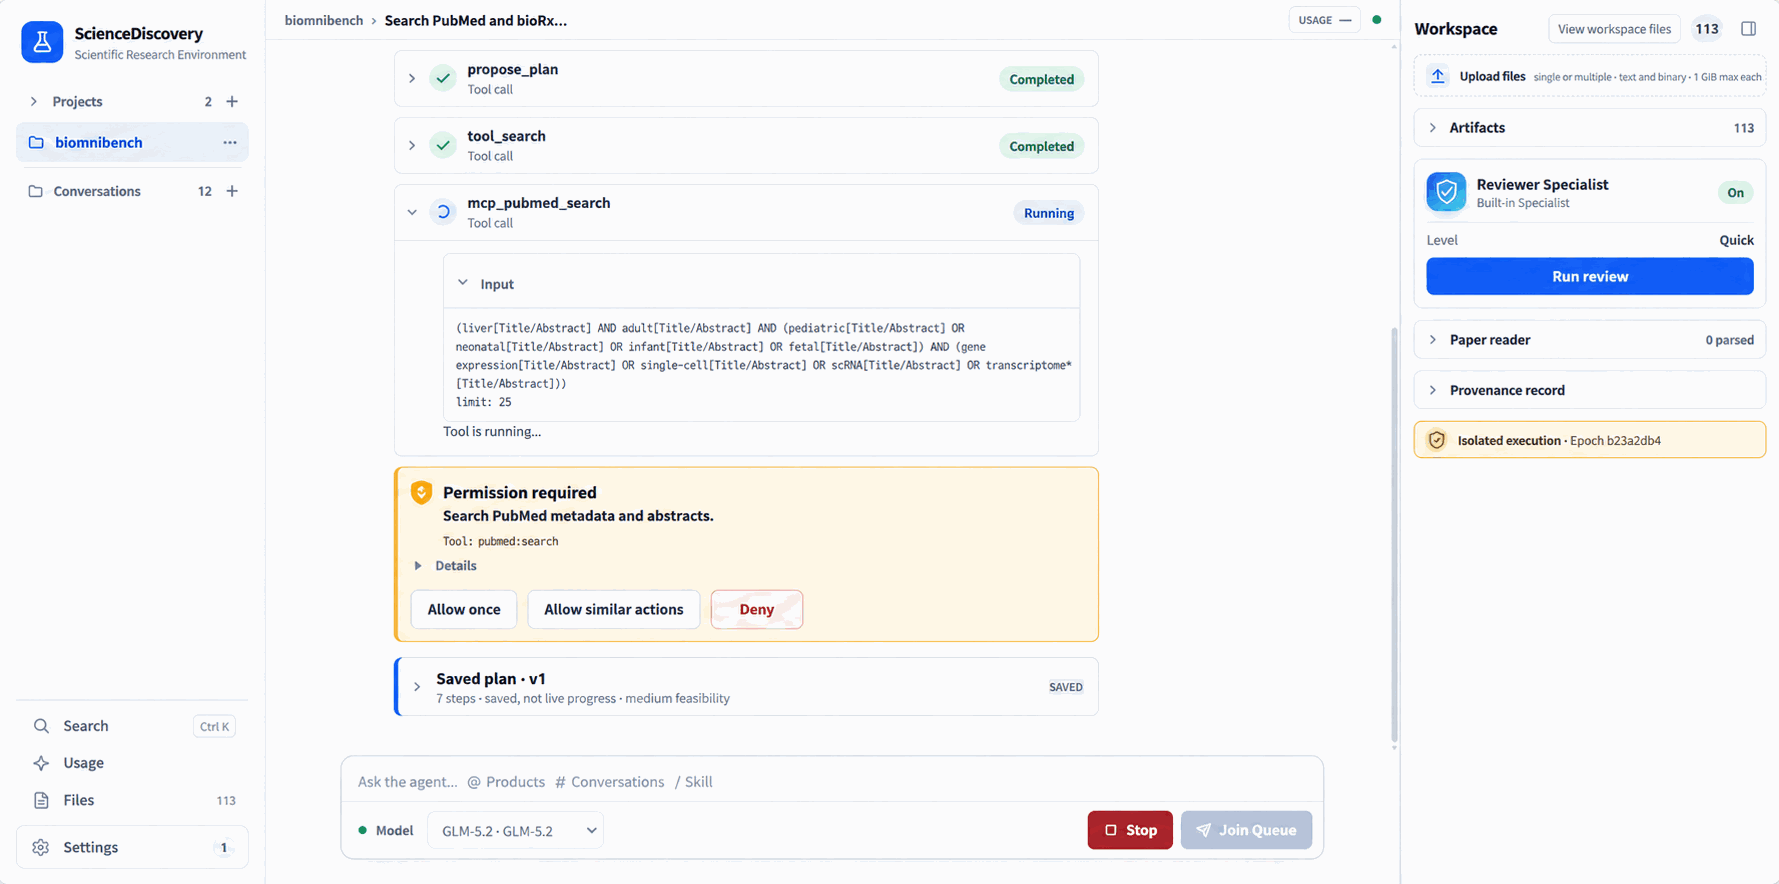
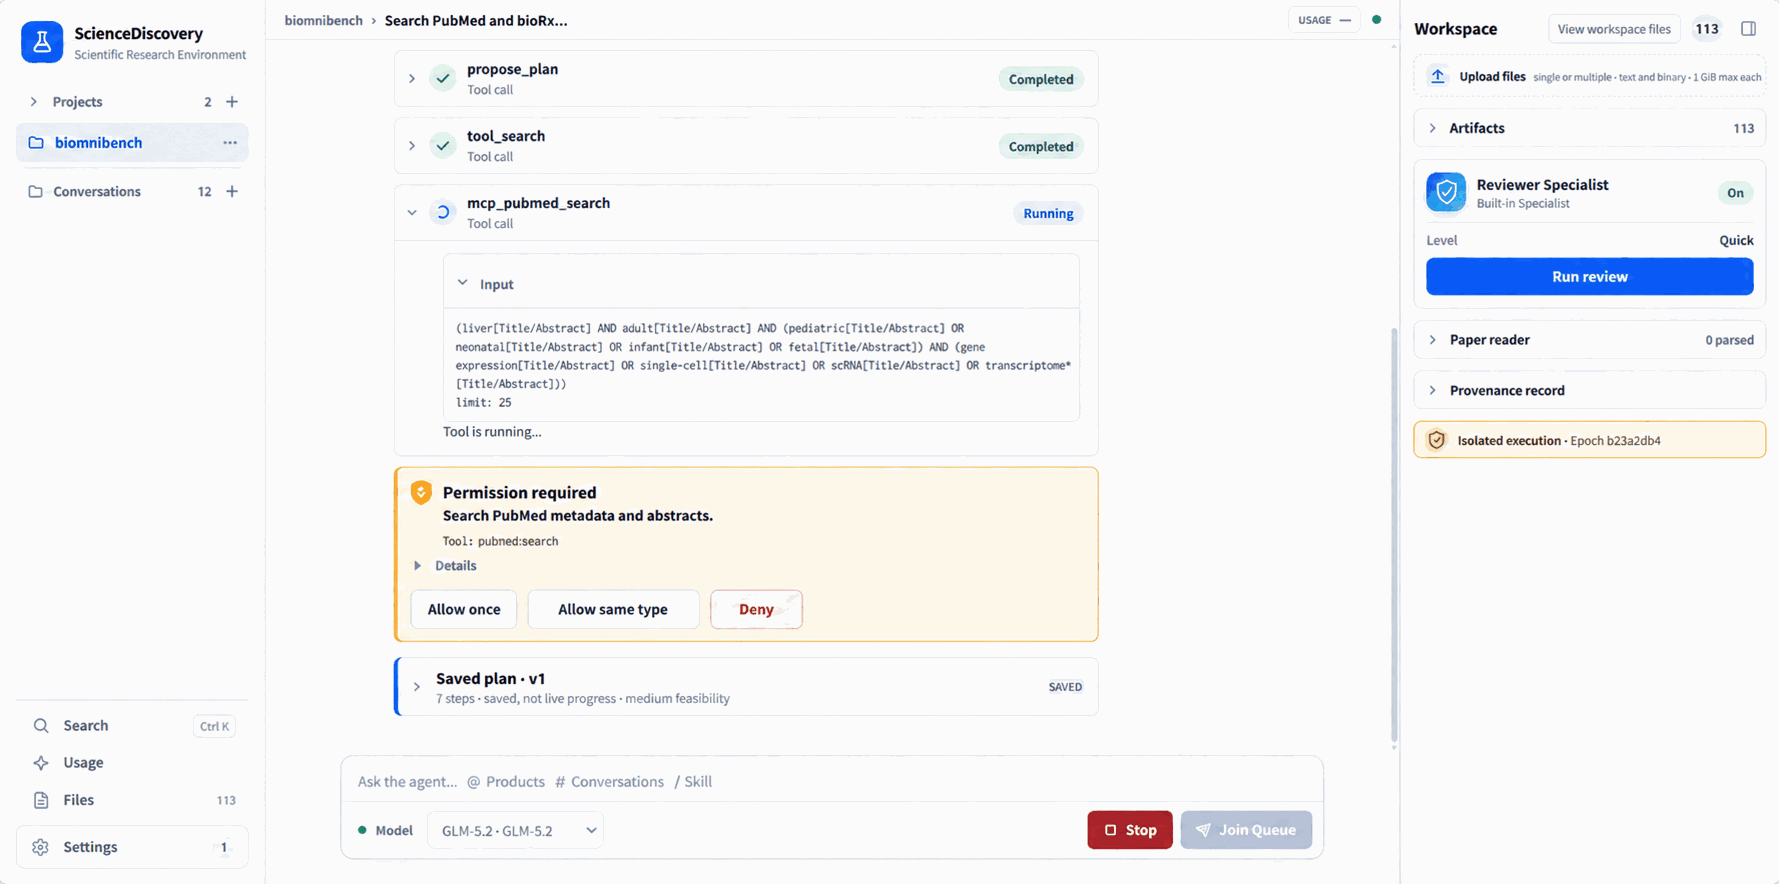
docs: fix first-use guide accuracy

diff --git a/docs/en/domains/literature-research.md b/docs/en/domains/literature-research.md
@@ -8,6 +8,11 @@ reviewing results.
 
 This case is a typical cross-database literature research task: the agent must search PubMed and bioRxiv for papers published 2023–2025 that compare gene expression in adult versus pediatric liver parenchymal cells, focus on immune-related pathways, and generate a bar chart of gene-count comparison for the top 14 enriched pathways, while flagging contradictory findings across studies.
 
+**bioRxiv search coverage:** The built-in search checks a rolling day window (`days`, default 30),
+then filters those records by text. It returns up to five matches by default (`limit`) and does not
+accept fixed calendar start and end dates. The 2023–2025 period in this case may not be covered.
+Check the returned dates before comparing the two sources.
+
 A task like this normally takes researchers days of manual reading and data extraction, with low
 efficiency and a high risk of omissions. ScienceDiscovery orchestrates multiple intelligent tools
 to automate the workflow end to end:
@@ -168,7 +173,9 @@ Search PubMed and bioRxiv for papers published 2023-2025 comparing gene
 expression in adult vs pediatric liver parenchymal cells. Focus on immune-related
 pathways. Generate a pathway enrichment bar chart showing gene count comparison
 between the two populations for the top 14 enriched pathways. Flag any
-contradictory findings across studies.
+contradictory findings across studies. In the report, state the date range and number of records
+returned by each source. For bioRxiv, state which parts of 2023-2025 are not represented because they
+fall outside the dates returned. An uncovered year does not mean there are no papers.
 ```
 
 Click **Run analysis**.
@@ -189,10 +196,13 @@ While a task runs, the Agent pauses before high-risk operations and pops a permi
 | scientific-environments | The Agent calls `environment_install` and other managed-environment change tools |
 | web | The Agent calls `web_search` or `web_fetch` to make a public-network request |
 
-Authorization applies to the current Session by default. To persist it at the Project or Global scope, go to **System configuration → Permissions** to adjust or revoke it.
+The card offers **Allow once**, **Allow same type**, and **Deny**. **Allow same type** creates a
+revocable grant for the same action and normalized resource class in the current Session. You can
+review or revoke that grant under **System configuration → Permissions**. The separate **Always
+allow** control in the composer changes the Session's approval mode and automatically approves every
+tool call while that mode is active; it is not a button on an individual permission card.
 
-If you do not want to confirm manually each time a card appears, click **Always allow** on that card to grant long-term authorization for that operation category.
-![Permission approval card](../../images/permission-en.png)
+![Permission approval card illustration](../../images/permission-en.png)
 
 ---
 
@@ -203,6 +213,11 @@ source literature, and execution chain, so the report's statements can be checke
 recorded evidence. The graph makes the result traceable and reviewable, shortening literature
 research that would normally take days to minutes while avoiding an opaque, unconstrained
 report-generation path.
+
+Before relying on the cross-database comparison, check the date range and number of records returned
+by each source. If the bioRxiv results do not cover all of 2023–2025, treat that part of the
+comparison as incomplete; the absence of returned papers from an uncovered year does not show that
+no such papers exist.
 
 ### 7.1 View artifacts
 

diff --git a/docs/zh/domains/literature-research.md b/docs/zh/domains/literature-research.md
@@ -6,6 +6,9 @@
 
 本案例是一项典型的跨数据库文献调研任务：智能体需同时检索 PubMed 和 bioRxiv 中 2023–2025 年间发表的论文，比较成人与儿童肝实质细胞的基因表达差异，重点关注免疫相关通路，并生成前 14 条富集通路的基因计数对比柱状图，同时标记不同文献间的矛盾结论。
 
+**bioRxiv 检索范围：**内置搜索按滚动天数窗口检索（`days` 默认值为 30），再对窗口内返回的记录进行文本筛选；默认最多返回 5 条匹配记录（`limit`）。
+它不支持指定固定的日历起止日期。本案例要求检索 2023–2025 年的论文，但默认窗口未必覆盖这些年份。比较两个来源前，请核对实际返回的论文日期。
+
 此类任务通常需要研究人员花费数天时间人工阅读与数据提取，效率低且容易遗漏。ScienceDiscovery 通过编排多种智能工具，可实现端到端自动化：
 
 - **检索阶段**：调用文献搜索 MCP 工具，自动构建检索策略，并行查询两个数据库。
@@ -152,7 +155,9 @@ Search PubMed and bioRxiv for papers published 2023-2025 comparing gene
 expression in adult vs pediatric liver parenchymal cells. Focus on immune-related
 pathways. Generate a pathway enrichment bar chart showing gene count comparison
 between the two populations for the top 14 enriched pathways. Flag any
-contradictory findings across studies.
+contradictory findings across studies. In the report, state the date range and number of records
+returned by each source. For bioRxiv, state which parts of 2023-2025 are not represented because they
+fall outside the dates returned. An uncovered year does not mean there are no papers.
 ```
 
 点击 **运行分析**。
@@ -172,14 +177,18 @@ contradictory findings across studies.
 | scientific-environments | Agent 调用 `environment_install` 等托管环境变更工具 |
 | web | Agent 调用 `web_search` 或 `web_fetch` 发起公网请求 |
 
-授权默认仅作用于当前 Session。如需在 Project 或 Global 范围内持久化，可前往 **系统配置 → Permissions** 进行调整或撤销。
+权限卡片提供 **仅允许一次（Allow once）**、**允许同类操作（Allow same type）**和 **拒绝（Deny）**。
+选择“允许同类操作”会在当前 Session 中，按相同动作和标准化资源类别创建可撤销授权，可在**系统配置 → Permissions**中查看或撤销。
+撰写框中的 **始终允许（Always allow）**是另一个独立控件，它会切换当前 Session 的审批模式；启用期间，所有工具调用都会自动批准，并非权限卡片上的按钮。
 
-如果不希望在每次出现审批卡时手动确认，可在对应卡片中点击 **始终允许（Always allow）**，授予该操作类别的长期授权。
 ![权限审批卡片](../../images/permission.png)
 
 ---
 
 ## 7. 查看结果
+
+依据跨数据库比较结论前，先核对各来源实际返回的日期范围和记录数。如果 bioRxiv 结果未覆盖完整的
+2023–2025 年，相关比较应视为不完整。未被检索覆盖的年份没有返回论文，并不能说明该年没有相关论文。
 
 智能体输出一份带有可点击引用标签的报告。每个标签对应其引用内容、来源文献与执行链路，因此可沿已记录证据检查报告中的论述。图谱让结果可追溯、可复核，将原本需要数天的文献调研缩短到分钟级，避免报告生成过程成为不可查看依据的黑箱。
 

diff --git a/README.md b/README.md
@@ -29,11 +29,12 @@ executes on your own machine, against your own files, with your own model keys.
 The prepackaged binary is the shortest path to a first run. On the
 [Releases page](https://github.com/openJiuwen-ai/sciencediscovery/releases), download
 the `ScienceDiscovery-<version>-linux-x86_64` asset for x86_64 or the
-`ScienceDiscovery-<version>-linux-aarch64` asset for arm64, then run:
+`ScienceDiscovery-<version>-linux-aarch64` asset for arm64. Rename the downloaded
+file to `ScienceDiscovery`, then run:
 
 ```bash
-chmod +x ScienceDiscovery-<version>-linux-<architecture>
-./ScienceDiscovery-<version>-linux-<architecture> serve
+chmod +x ./ScienceDiscovery
+./ScienceDiscovery serve
 ```
 
 Open the **`Open to sign in`** URL that `serve` prints. The browser stores the local service access token automatically, so there is nothing to copy. That token is distinct from a model API key, and the URL grants access to this machine's workspace — keep it private. The web interface is served at <http://127.0.0.1:4310>; the terminal window only runs the service.

diff --git a/README_zh.md b/README_zh.md
@@ -28,11 +28,12 @@ ScienceDiscovery 是一个基于 [JiuwenSwarm](https://gitcode.com/openJiuwen/ji
 预打包二进制是完成首次运行的最短路径。请在
 [Releases 页面](https://github.com/openJiuwen-ai/sciencediscovery/releases)下载与架构匹配的
 `ScienceDiscovery-<version>-linux-x86_64`（x86_64）或
-`ScienceDiscovery-<version>-linux-aarch64`（arm64），再执行：
+`ScienceDiscovery-<version>-linux-aarch64`（arm64）。请将下载的文件重命名为
+`ScienceDiscovery`，再执行：
 
 ```bash
-chmod +x ScienceDiscovery-<version>-linux-<architecture>
-./ScienceDiscovery-<version>-linux-<architecture> serve
+chmod +x ./ScienceDiscovery
+./ScienceDiscovery serve
 ```
 
 打开 `serve` 输出的 **`Open to sign in`** 链接，浏览器将自动保存本地服务访问令牌，无需手动复制。该令牌不同于模型 API Key；此链接可访问本机工作区，请勿外传。Web 界面位于 <http://127.0.0.1:4310>，终端窗口仅运行服务进程。

diff --git a/docs/en/core/evolve.md b/docs/en/core/evolve.md
@@ -121,7 +121,7 @@ candidates marked ↔, and each cell's complexity/diversity coordinates:
 The starting point and the winner are saved as two versions of the same artifact, so the result
 is a diff rather than a loose file, and a further search can be started from either version.
 
-![Diffing the starting point against the winning candidate](../../images/evolve/result-diff-en.png)
+![Example diff view for an evolution search](../../images/evolve/result-diff-en.png)
 
 The run is also mirrored into [ScienceMemory](../developer-docs/science-memory.md) when that is enabled: the search
 node links to its starting point through an `input` edge and to its result through `produces`, and

diff --git a/docs/zh/core/evolve.md b/docs/zh/core/evolve.md
@@ -79,7 +79,7 @@ OpenEvolve 运行还多两个视图。图视图按迭代号排列候选，每个
 
 起点和最优版本存为同一产物的两个版本，所以结果是一份 diff 而不是一个孤立文件，并且可以从任一版本再次发起搜索。
 
-![起点与最优候选的对比](../../images/evolve/result-diff.png)
+![演进搜索中的差异视图示例](../../images/evolve/result-diff.png)
 
 开启[科学记忆](../developer-docs/science-memory.md)时运行也会写入图谱：搜索节点通过 `input` 边关联起点、`produces` 边关联结果，节点详情带基线分与留出测试分。
 

diff --git a/docs/en/domains/evolve-a-solution.md b/docs/en/domains/evolve-a-solution.md
@@ -91,7 +91,7 @@ working.
 
 ## 7. Read the result
 
-![Starting point and winner as two versions of one artifact](../../images/evolve/result-diff-en.png)
+![Example diff view for an evolution search](../../images/evolve/result-diff-en.png)
 
 When it finishes, the starting point and the winner are two versions of the same artifact. Open
 the diff and read what actually changed — this is the part worth your time, because it tells you

diff --git a/docs/en/getting-started/quick-start.md b/docs/en/getting-started/quick-start.md
@@ -32,7 +32,7 @@ After its service is running, continue with [Configure a task model](#3-configur
 
 ## 2. Start ScienceDiscovery
 
-The following commands assume the `ScienceDiscovery` executable is in the current directory:
+Rename the downloaded release asset to `ScienceDiscovery` and place it in the current directory:
 
 ```bash
 chmod +x ./ScienceDiscovery

diff --git a/docs/zh/getting-started/quick-start.md b/docs/zh/getting-started/quick-start.md
@@ -30,7 +30,7 @@ sudo apt-get install -y bubblewrap   # Debian / Ubuntu
 
 ## 2. 启动 ScienceDiscovery
 
-以下命令假设 `ScienceDiscovery` 可执行文件位于当前目录：
+请将下载的发行文件重命名为 `ScienceDiscovery`，并放在当前目录：
 
 ```bash
 chmod +x ./ScienceDiscovery
